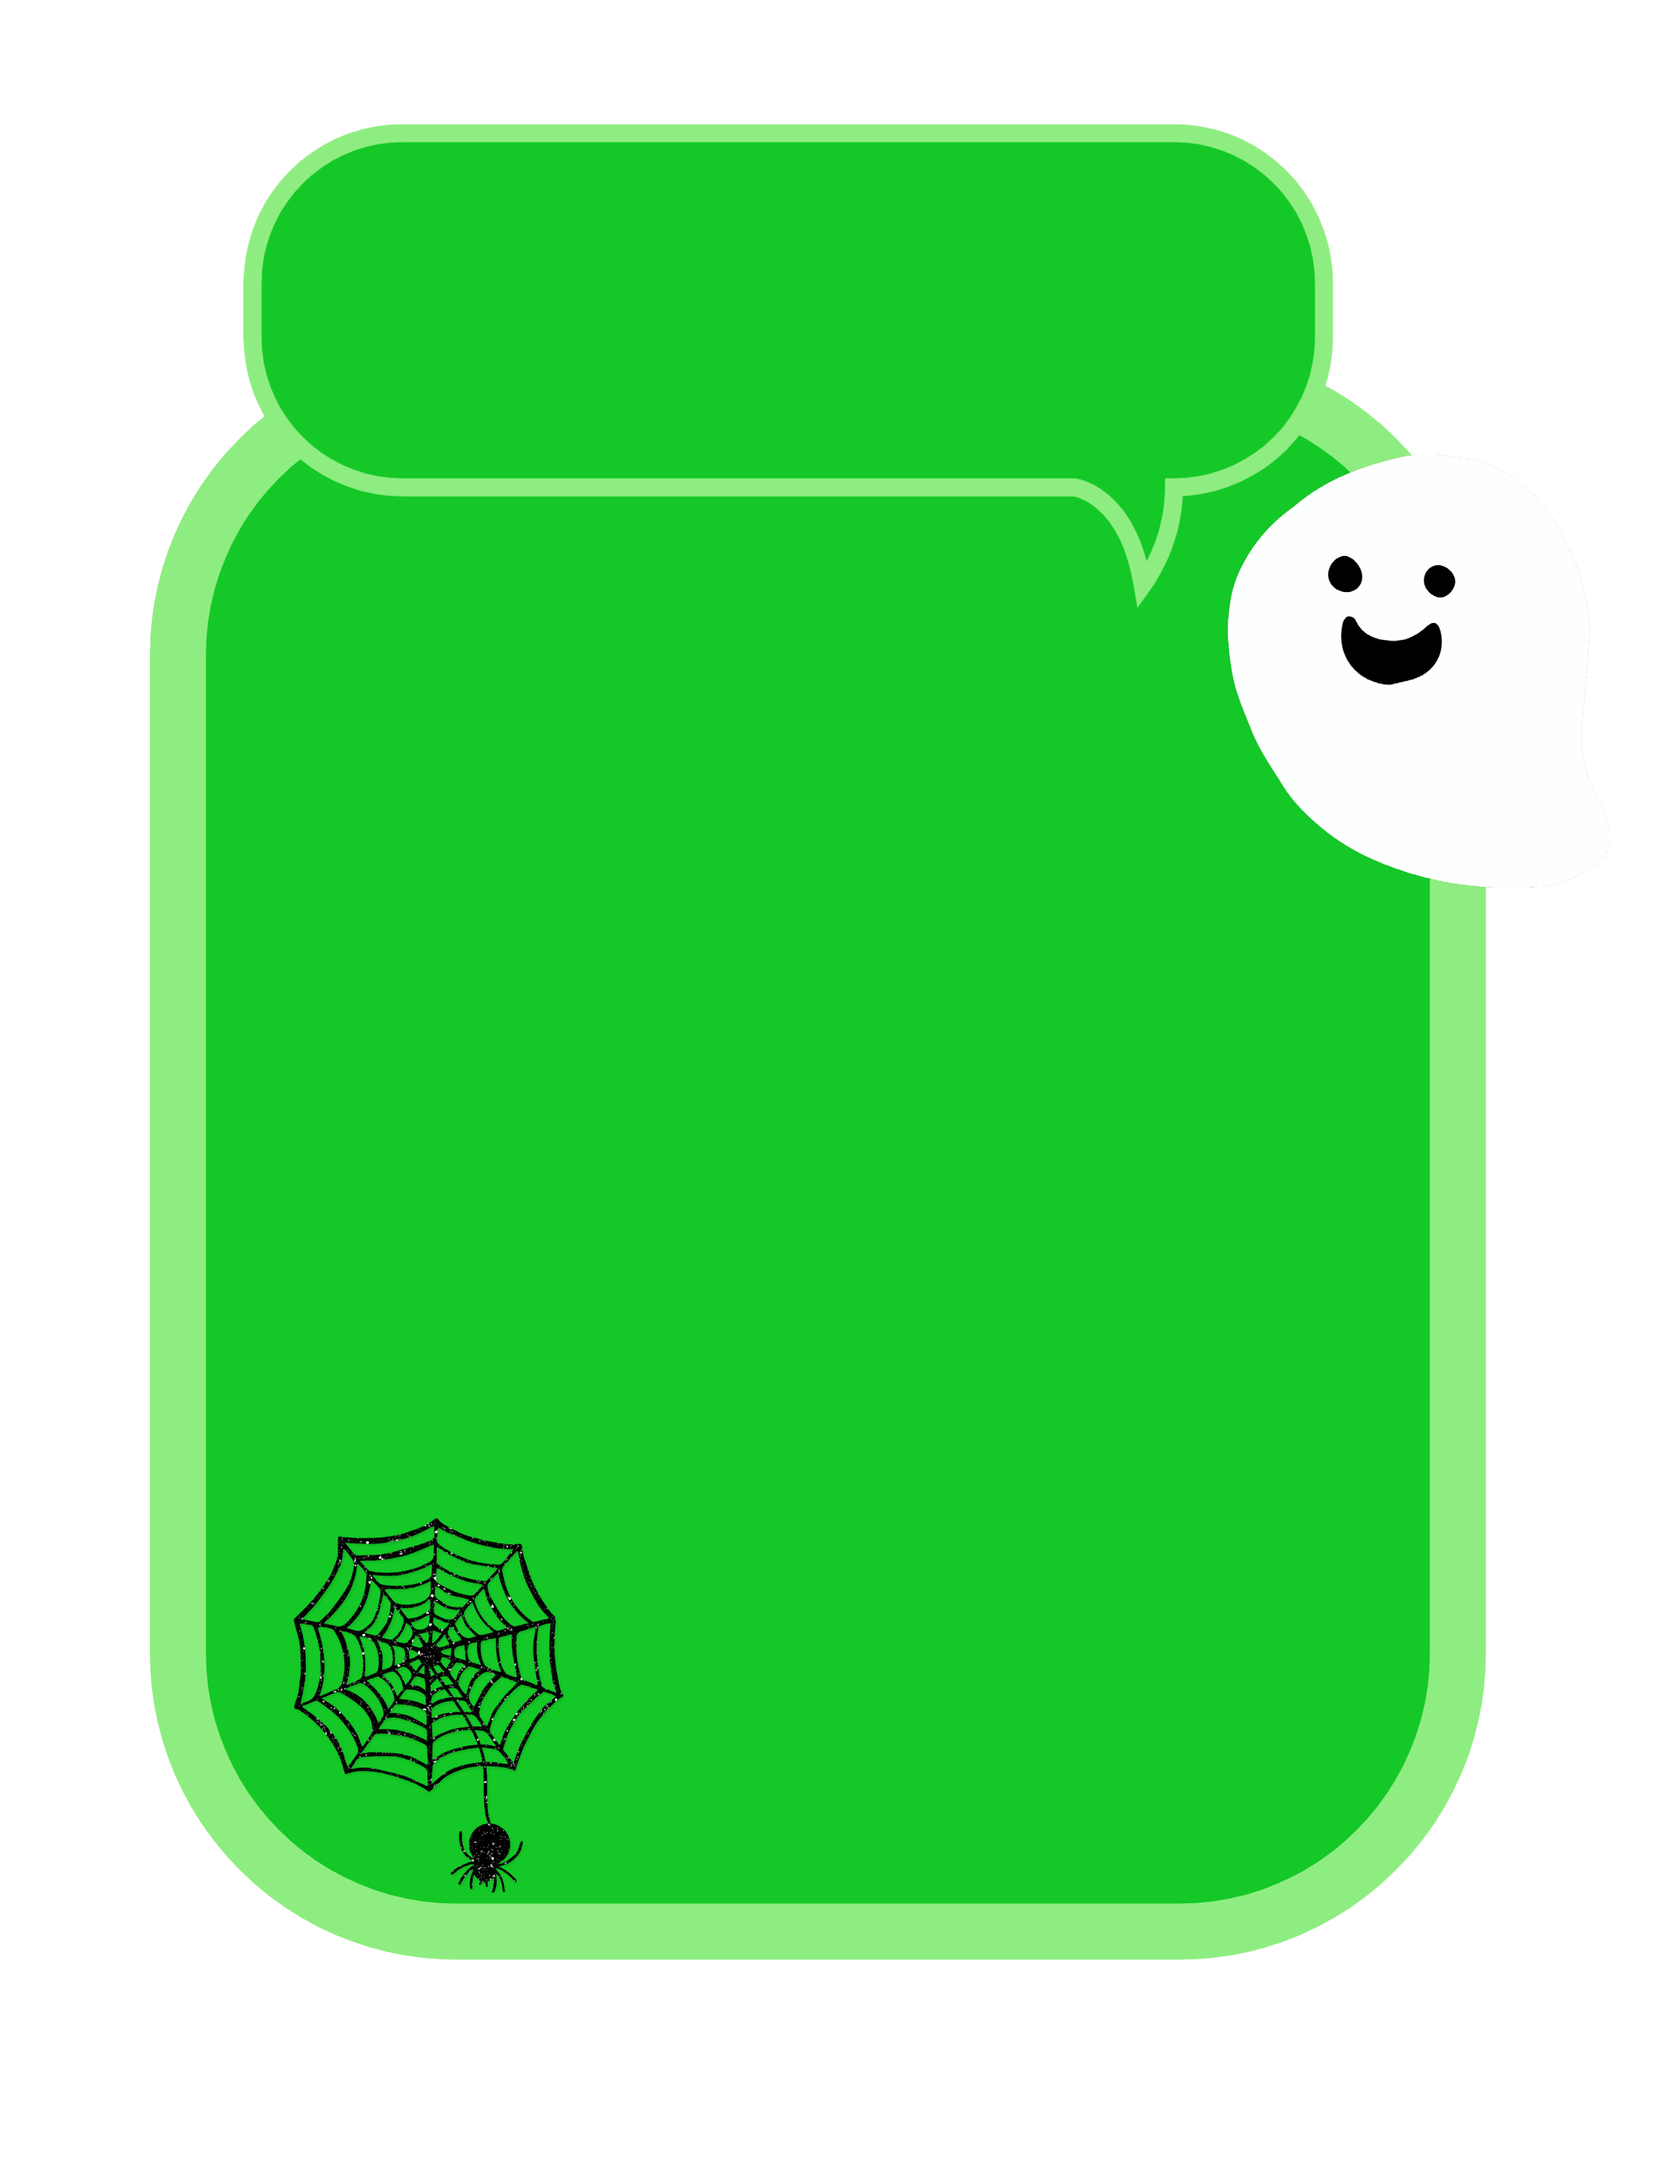
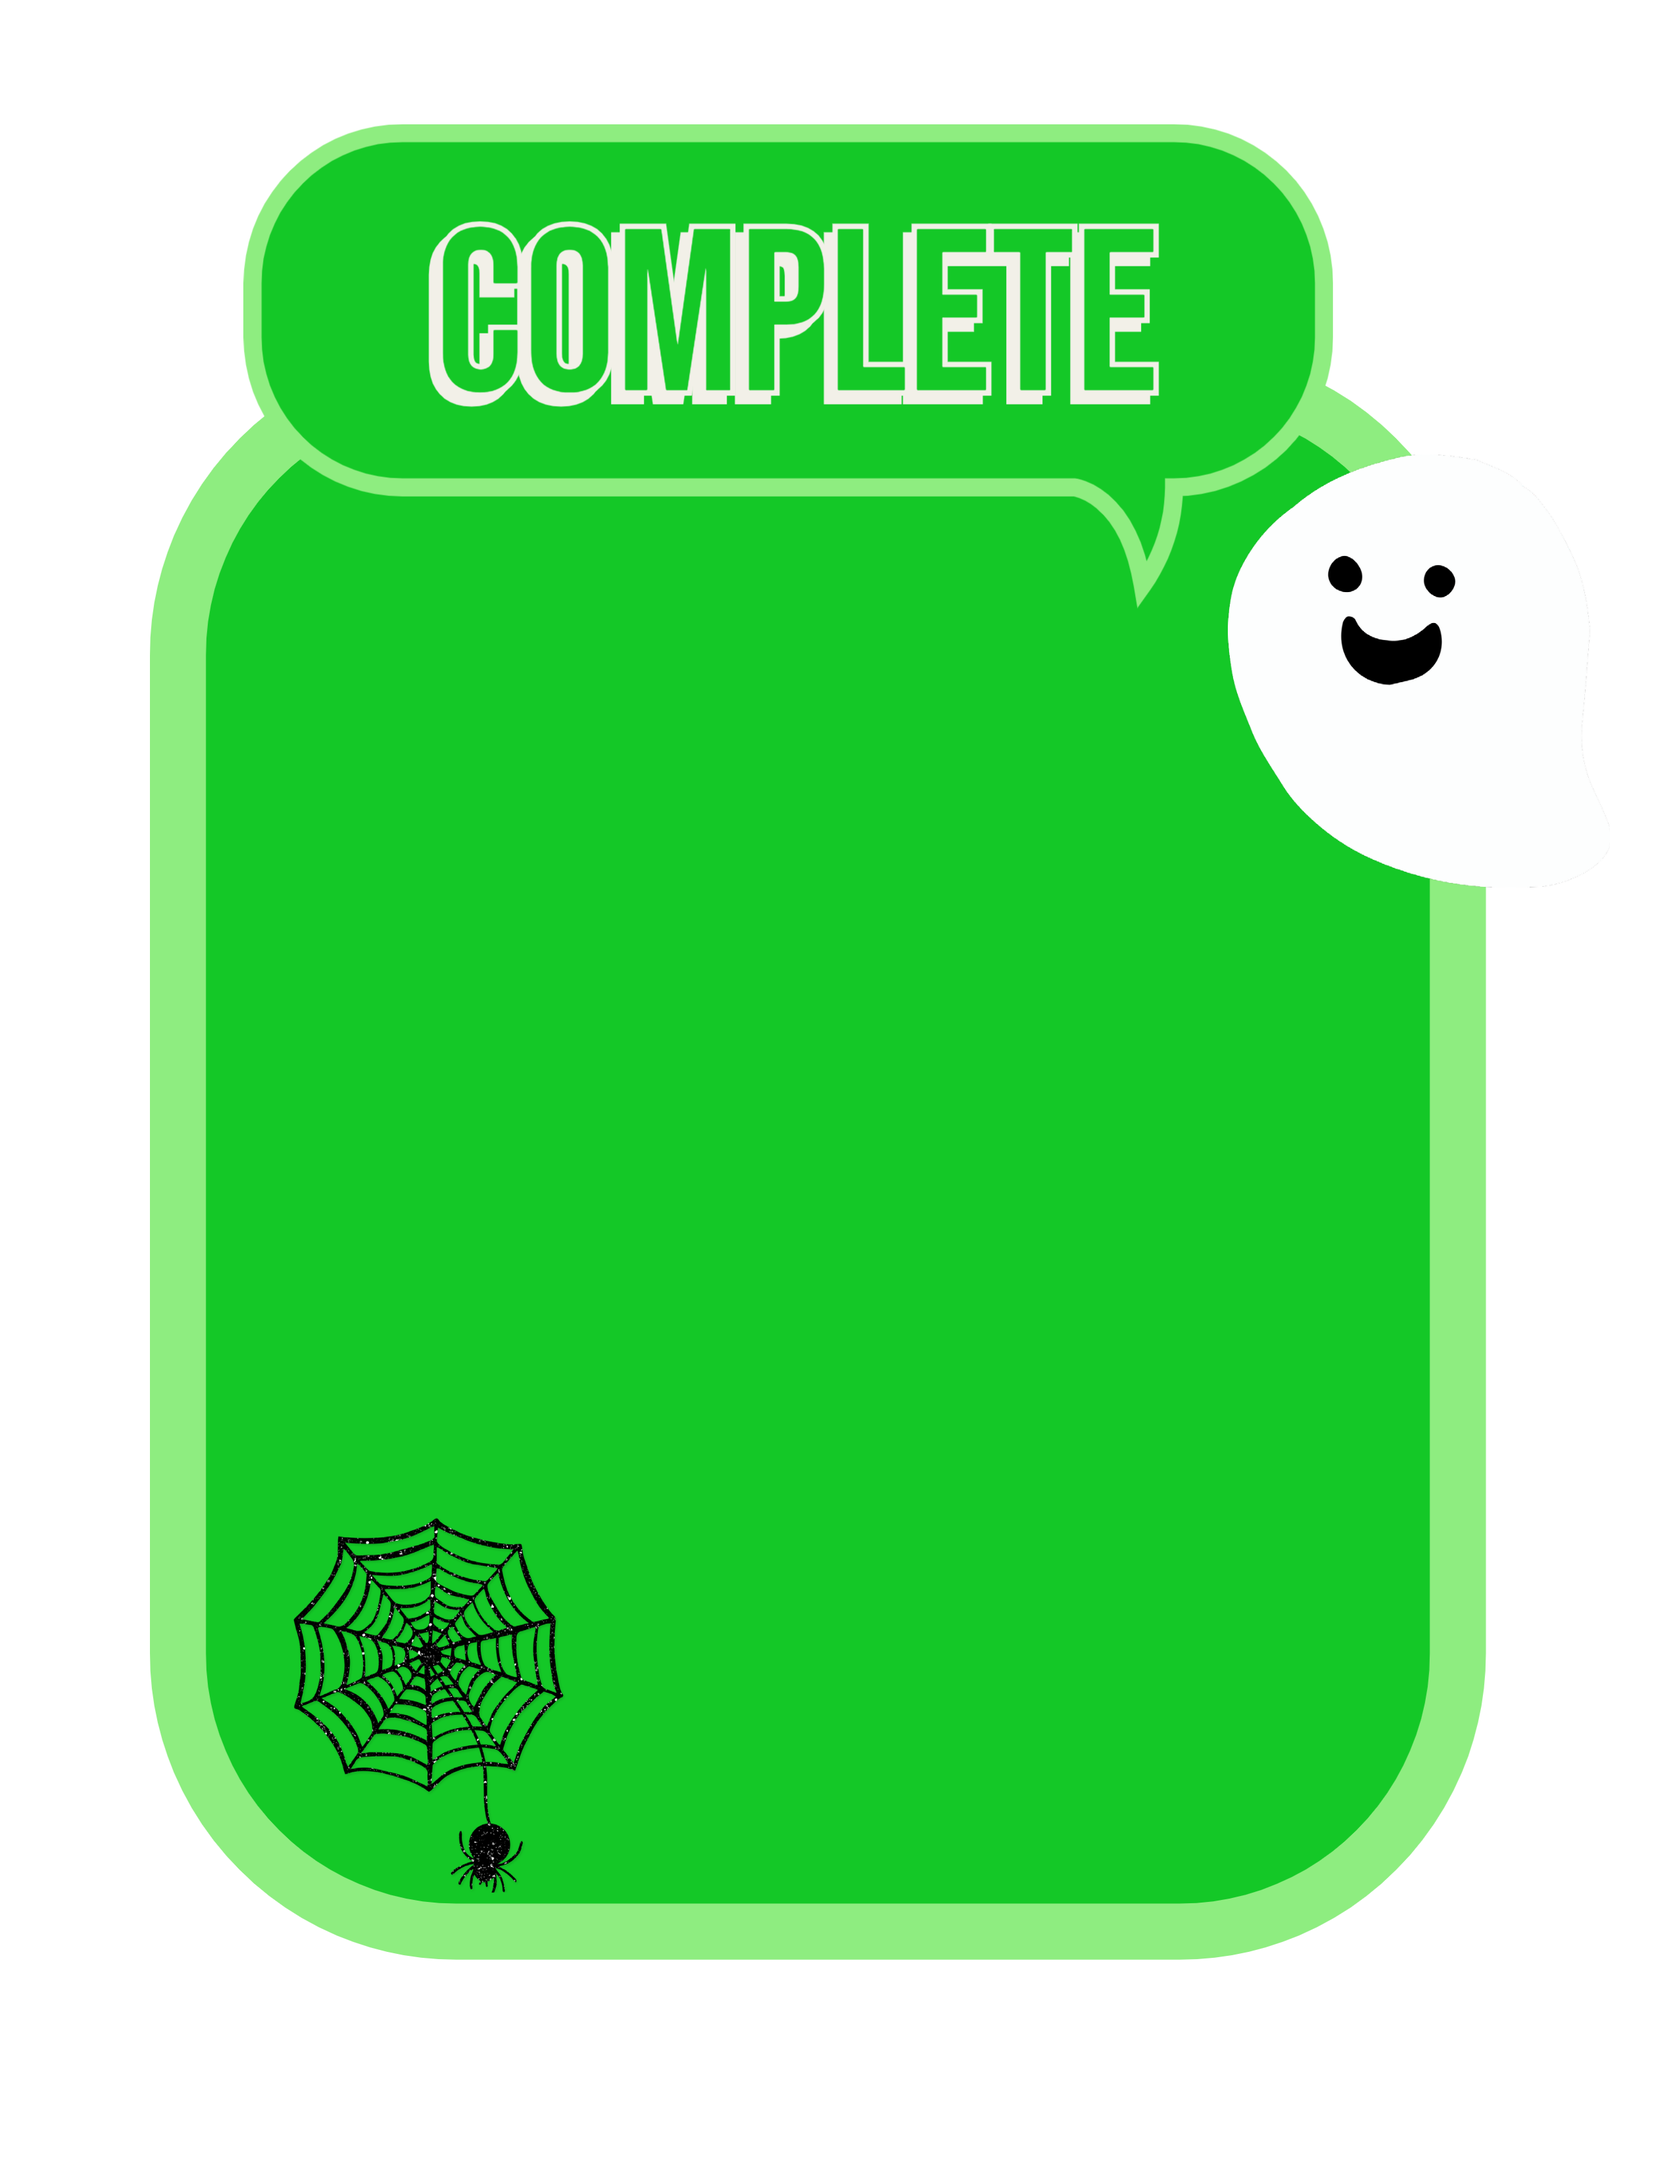
Tarea clase 3

Changed region(s): [[0.2478, 0.0936, 0.7125, 0.1873]]

diff --git a/src/UIDemo.ts b/src/UIDemo.ts
@@ -17,24 +17,29 @@ export class UIDemo extends Container{
         taskpanel.scale.set(2);
 
         //Texto
-        const taskText : Text = new Text ("Holis", {fontSize:50,fill:0xff0000});
-        taskText.text = "COMPLETE";
-        taskText.position.x =400;
-        taskText.position.y =200;
- 
-        taskText.scale.set(2);
+        const taskText : Text = new Text ("Waiting...", {fontSize:50,fill:0x8EED80});
+        //taskText.text = "COMPLETE";
+        taskText.position.x =600;
+        taskText.position.y =900;
+         
+        taskText.scale.set(1);
          
         this.addChild(taskText);
 
-        const estrella: Sprite= Sprite.from("estrella");
-        estrella.position.set (350,250);
-        estrella.scale.set(0.1);
-        this.addChild(estrella);
+        const star: Sprite= Sprite.from("star");
+        star.position.set (300,400);
+        star.scale.set(0.1);
+        this.addChild(star);
 
-        const estrella2: Sprite= Sprite.from("estrella");
-        estrella2.position.set (1375,250);
-        estrella2.scale.set(0.1);
-        this.addChild(estrella2);    
+        const play: Sprite= Sprite.from("play");
+        play.position.set (600,400);
+        play.scale.set(0.1);
+        this.addChild(play);    
+
+        const okey : Sprite = Sprite.from("okey");
+        okey.position.set(450,650);
+        okey.scale.set(0.1);
+        this.addChild(okey);
         
     }      
 

diff --git a/src/assets.ts b/src/assets.ts
@@ -12,8 +12,9 @@ export const assets = {
     panel:"./ui/fondo.png", 
 
     taskpanel:"./ui/recuadro1.png",
-    estrella:"./ui/boton3.png",
-    //box:":/ui/recuadro2.png"
+    star:"./ui/botonstar.png",
+    play:"./ui/botonplay.png",
+    okey:"./ui/botonok.png",
    
 
 };
